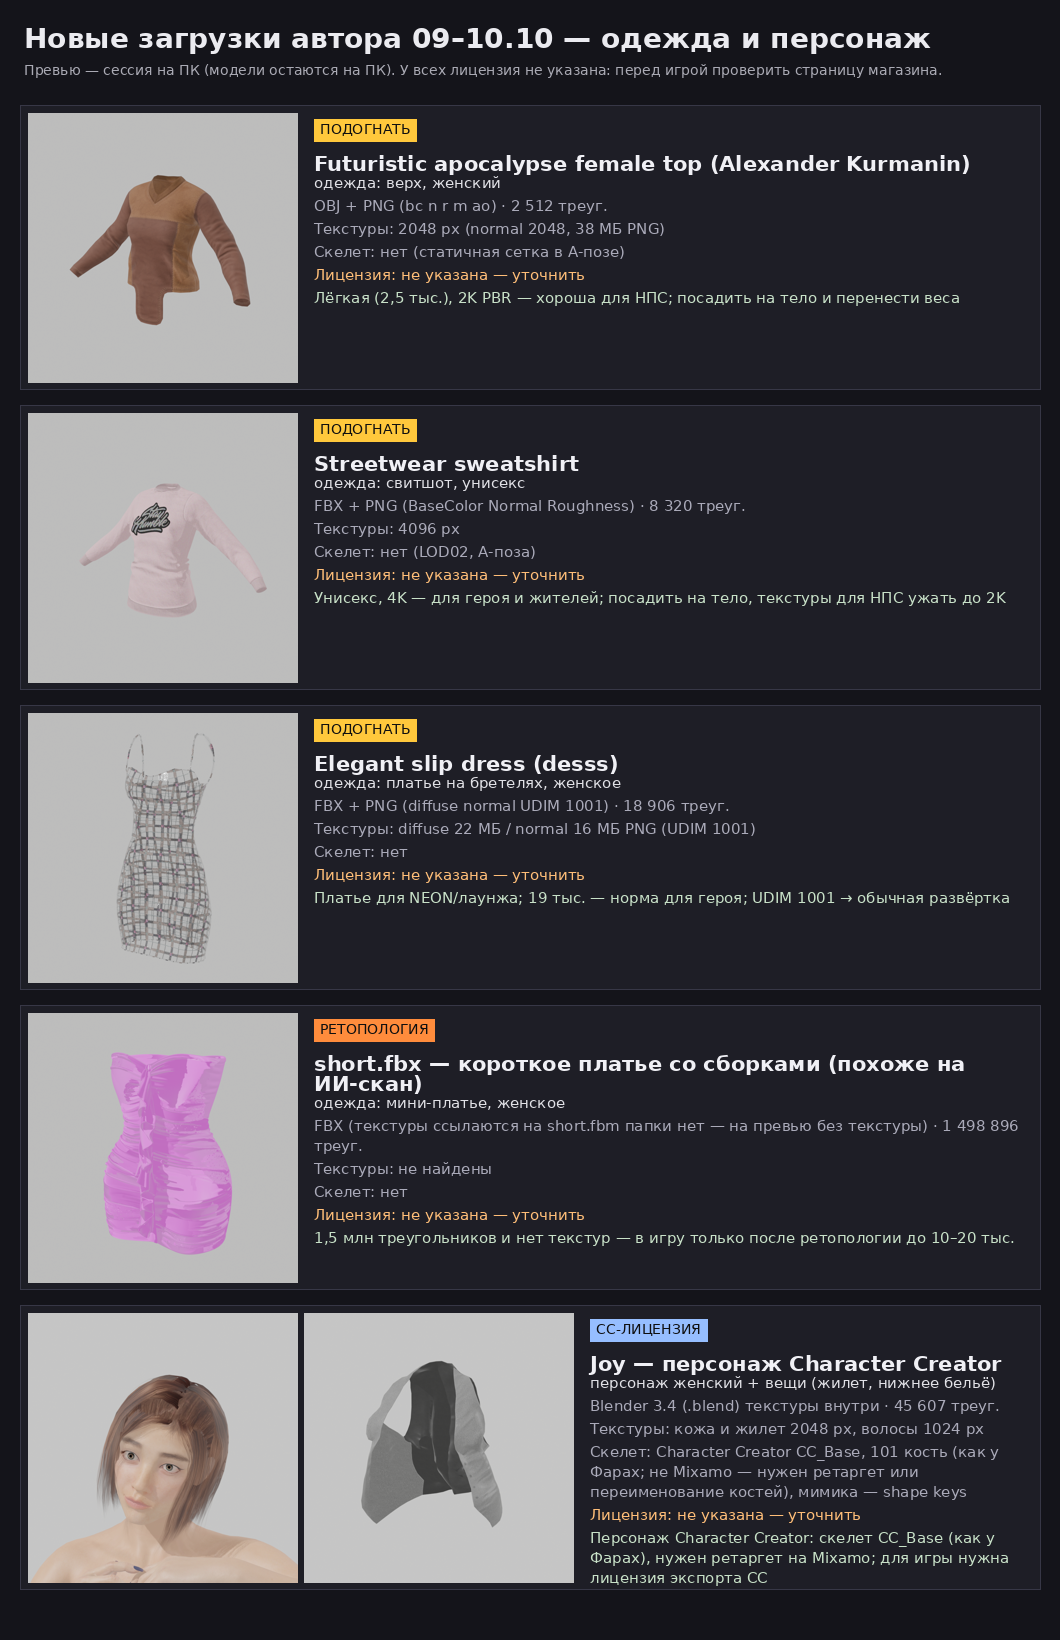
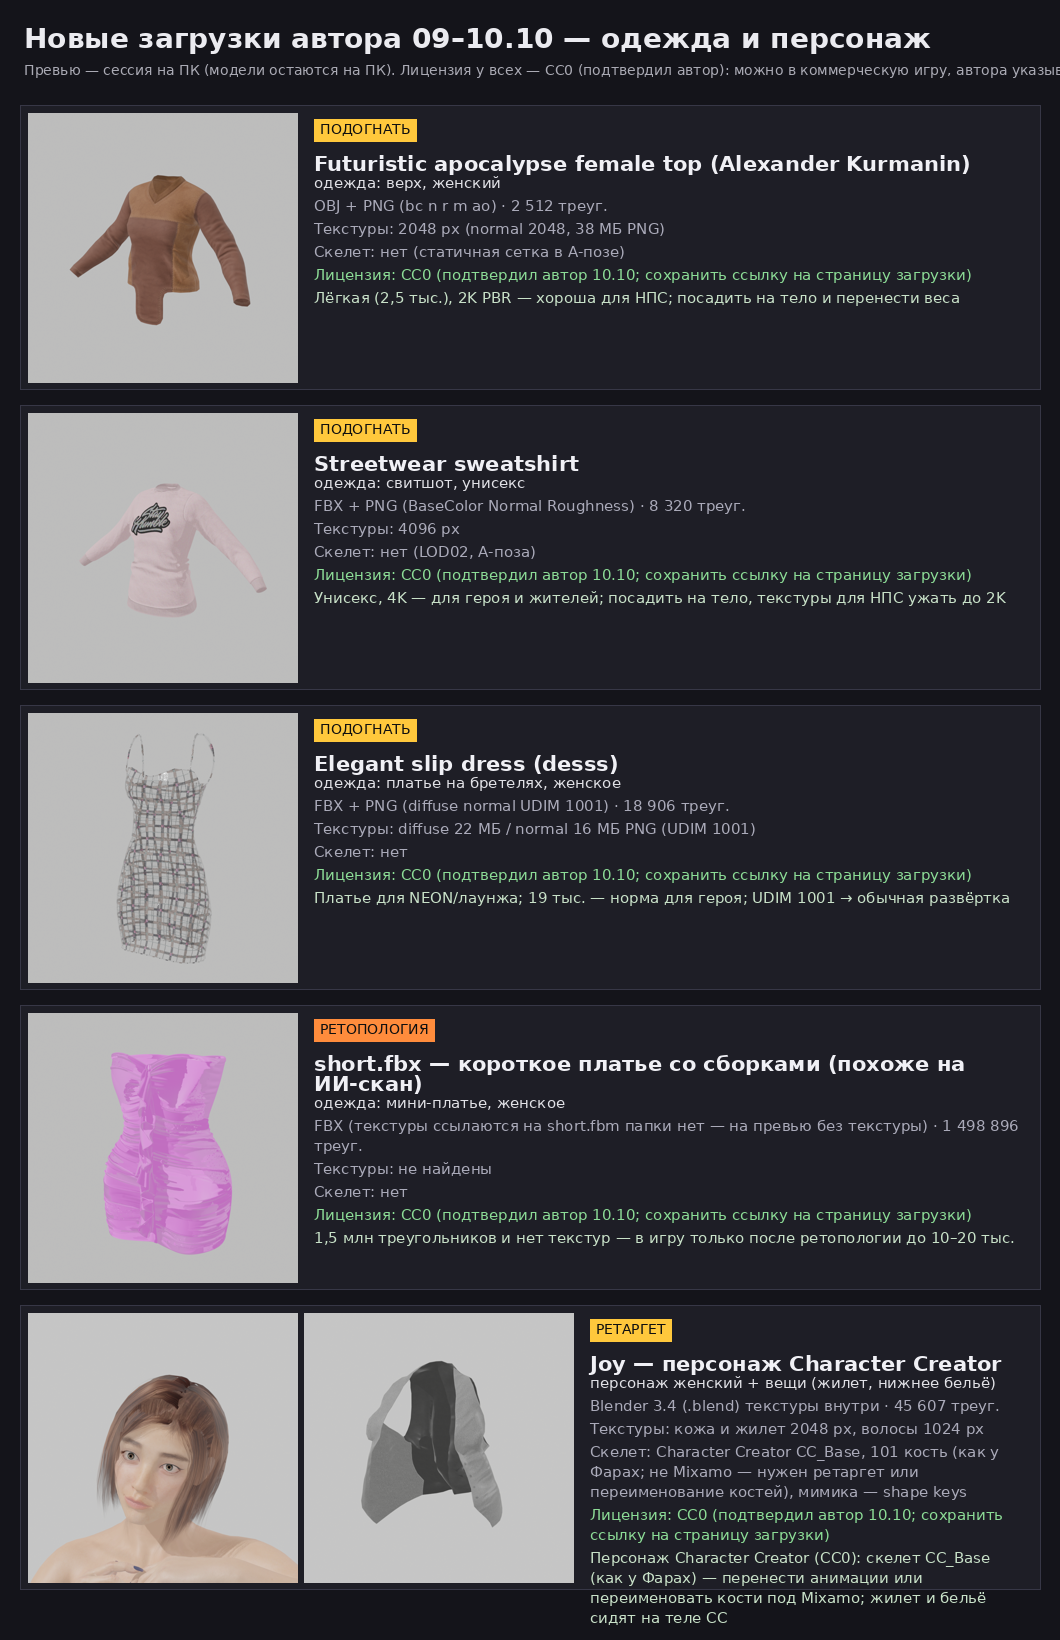
Каталог новых загрузок: лицензия CC0 (подтвердил автор)
Claude-Session: https://claude.ai/code/session_01K7FGDJpFWZ7zzKqcCRf9up

diff --git a/npc_gelsenkirchen/bar/make_catalog_incoming.py b/npc_gelsenkirchen/bar/make_catalog_incoming.py
@@ -6,13 +6,13 @@ INC = os.path.join(HERE, "assets_preview", "incoming")
 d = json.load(open(os.path.join(INC, "incoming_2026-10-10.json"), encoding="utf-8"))
 F, FB = "/usr/share/fonts/truetype/dejavu/DejaVuSans.ttf", "/usr/share/fonts/truetype/dejavu/DejaVuSans-Bold.ttf"
 f_t, f_b, f_s, f_h = ImageFont.truetype(FB, 21), ImageFont.truetype(F, 15), ImageFont.truetype(F, 14), ImageFont.truetype(FB, 28)
-VER = {"ПОДОГНАТЬ": (255, 200, 60), "РЕТОПОЛОГИЯ": (255, 140, 60), "ЛИЦЕНЗИЯ?": (150, 190, 255), "CC-ЛИЦЕНЗИЯ": (150, 190, 255)}
+VER = {"ПОДОГНАТЬ": (255, 200, 60), "РЕТОПОЛОГИЯ": (255, 140, 60), "ЛИЦЕНЗИЯ?": (150, 190, 255), "CC-ЛИЦЕНЗИЯ": (150, 190, 255), "РЕТАРГЕТ": (255, 200, 60)}
 # вердикт и короткая заметка по каждой позиции
 NOTE = {"futuristic_top": ("ПОДОГНАТЬ", "Лёгкая (2,5 тыс.), 2K PBR — хороша для НПС; посадить на тело и перенести веса"),
 	"streetwear_sweatshirt": ("ПОДОГНАТЬ", "Унисекс, 4K — для героя и жителей; посадить на тело, текстуры для НПС ужать до 2K"),
 	"dress_elegant": ("ПОДОГНАТЬ", "Платье для NEON/лаунжа; 19 тыс. — норма для героя; UDIM 1001 → обычная развёртка"),
 	"shorts_scan": ("РЕТОПОЛОГИЯ", "1,5 млн треугольников и нет текстур — в игру только после ретопологии до 10–20 тыс."),
-	"joy_character": ("CC-ЛИЦЕНЗИЯ", "Персонаж Character Creator: скелет CC_Base (как у Фарах), нужен ретаргет на Mixamo; для игры нужна лицензия экспорта CC")}
+	"joy_character": ("РЕТАРГЕТ", "Персонаж Character Creator (CC0): скелет CC_Base (как у Фарах) — перенести анимации или переименовать кости под Mixamo; жилет и бельё сидят на теле CC")}
 cards = []
 for x in d["items"]:
 	prev = [p.strip() for p in str(x.get("preview", "")).split(",") if p.strip()]
@@ -23,7 +23,7 @@ H = 120 + len(cards) * CH + 20
 S = Image.new("RGB", (CW + 40, H), (20, 20, 26))
 dr = ImageDraw.Draw(S)
 dr.text((24, 22), "Новые загрузки автора 09–10.10 — одежда и персонаж", font=f_h, fill=(235, 235, 240))
-dr.text((24, 62), "Превью — сессия на ПК (модели остаются на ПК). У всех лицензия не указана: перед игрой проверить страницу магазина.", font=f_s, fill=(170, 170, 180))
+dr.text((24, 62), "Превью — сессия на ПК (модели остаются на ПК). Лицензия у всех — CC0 (подтвердил автор): можно в коммерческую игру, автора указывать не обязательно.", font=f_s, fill=(170, 170, 180))
 for n, (prev, x, ver, note) in enumerate(cards):
 	y = 105 + n * CH
 	dr.rectangle((20, y, 20 + CW, y + CH - 16), fill=(30, 30, 38), outline=(55, 55, 70))
@@ -39,7 +39,7 @@ for n, (prev, x, ver, note) in enumerate(cards):
 	dr.text((tx + 6, y + 16), ver, font=f_s, fill=(15, 15, 15))
 	lines = [(x["name"], f_t, (240, 240, 245)), (x["type"], f_b, (225, 225, 230)), (f"{x['format']} · {x['triangles']:,} треуг.".replace(",", " "), f_b, (170, 170, 185)),
 		("Текстуры: " + str(x["textures"]), f_b, (170, 170, 185)), ("Скелет: " + str(x["skeleton"]), f_b, (170, 170, 185)),
-		("Лицензия: " + str(x["license"]), f_b, (255, 190, 120)), (note, f_b, (200, 225, 200))]
+		("Лицензия: " + str(x["license"]), f_b, (140, 220, 150)), (note, f_b, (200, 225, 200))]
 	yy = y + 46
 	for text, fnt, col in lines:
 		words, cur = str(text).split(), ""
